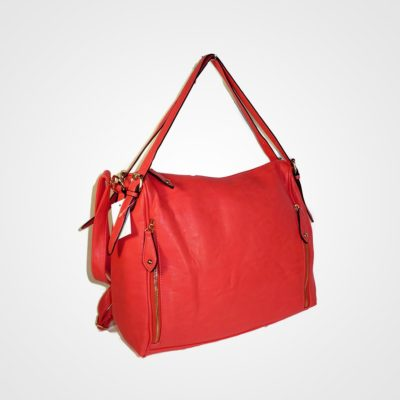
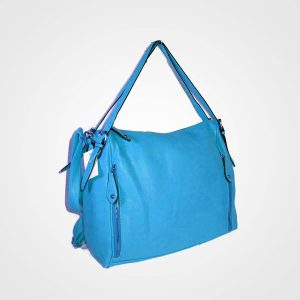
added color functions

Changed region(s): [[0.18, 0.12, 0.81, 0.9]]

diff --git a/index.js b/index.js
@@ -124,3 +124,28 @@ function changeOrangeImage2()  {
 
     container.style.backgroundImage = "url('resources/card2-orange.jpg')";
 }
+
+//fbox10
+function changeOrangeImage10()  {
+    var container = document.getElementById('fbox10');
+
+    container.style.backgroundImage = "url('resources/cad10-brown.jpg')";
+}
+
+function changeRedImage10()  {
+    var container = document.getElementById('fbox10');
+
+    container.style.backgroundImage = "url('resources/cad10-red.jpg')";
+}
+
+function changePurpleImage10()  {
+    var container = document.getElementById('fbox10');
+
+    container.style.backgroundImage = "url('resources/cad10-purple.jpg')";
+}
+
+function changeBlueImage10()  {
+    var container = document.getElementById('fbox10');
+
+    container.style.backgroundImage = "url('resources/cad10.jpg')";
+}

diff --git a/index.css b/index.css
@@ -283,7 +283,7 @@ button {
 .black {background-color: rgb(2, 2, 2);}
 .lightblue {background-color: #00bbf4;}
 .orange {background-color: #f48e00;}
-.purple {background-color: #ef0eaf;}
+.purple {background-color: #b8039d;}
 
 #fbox1 {
     background-image: url(resources/card1.jpg);
